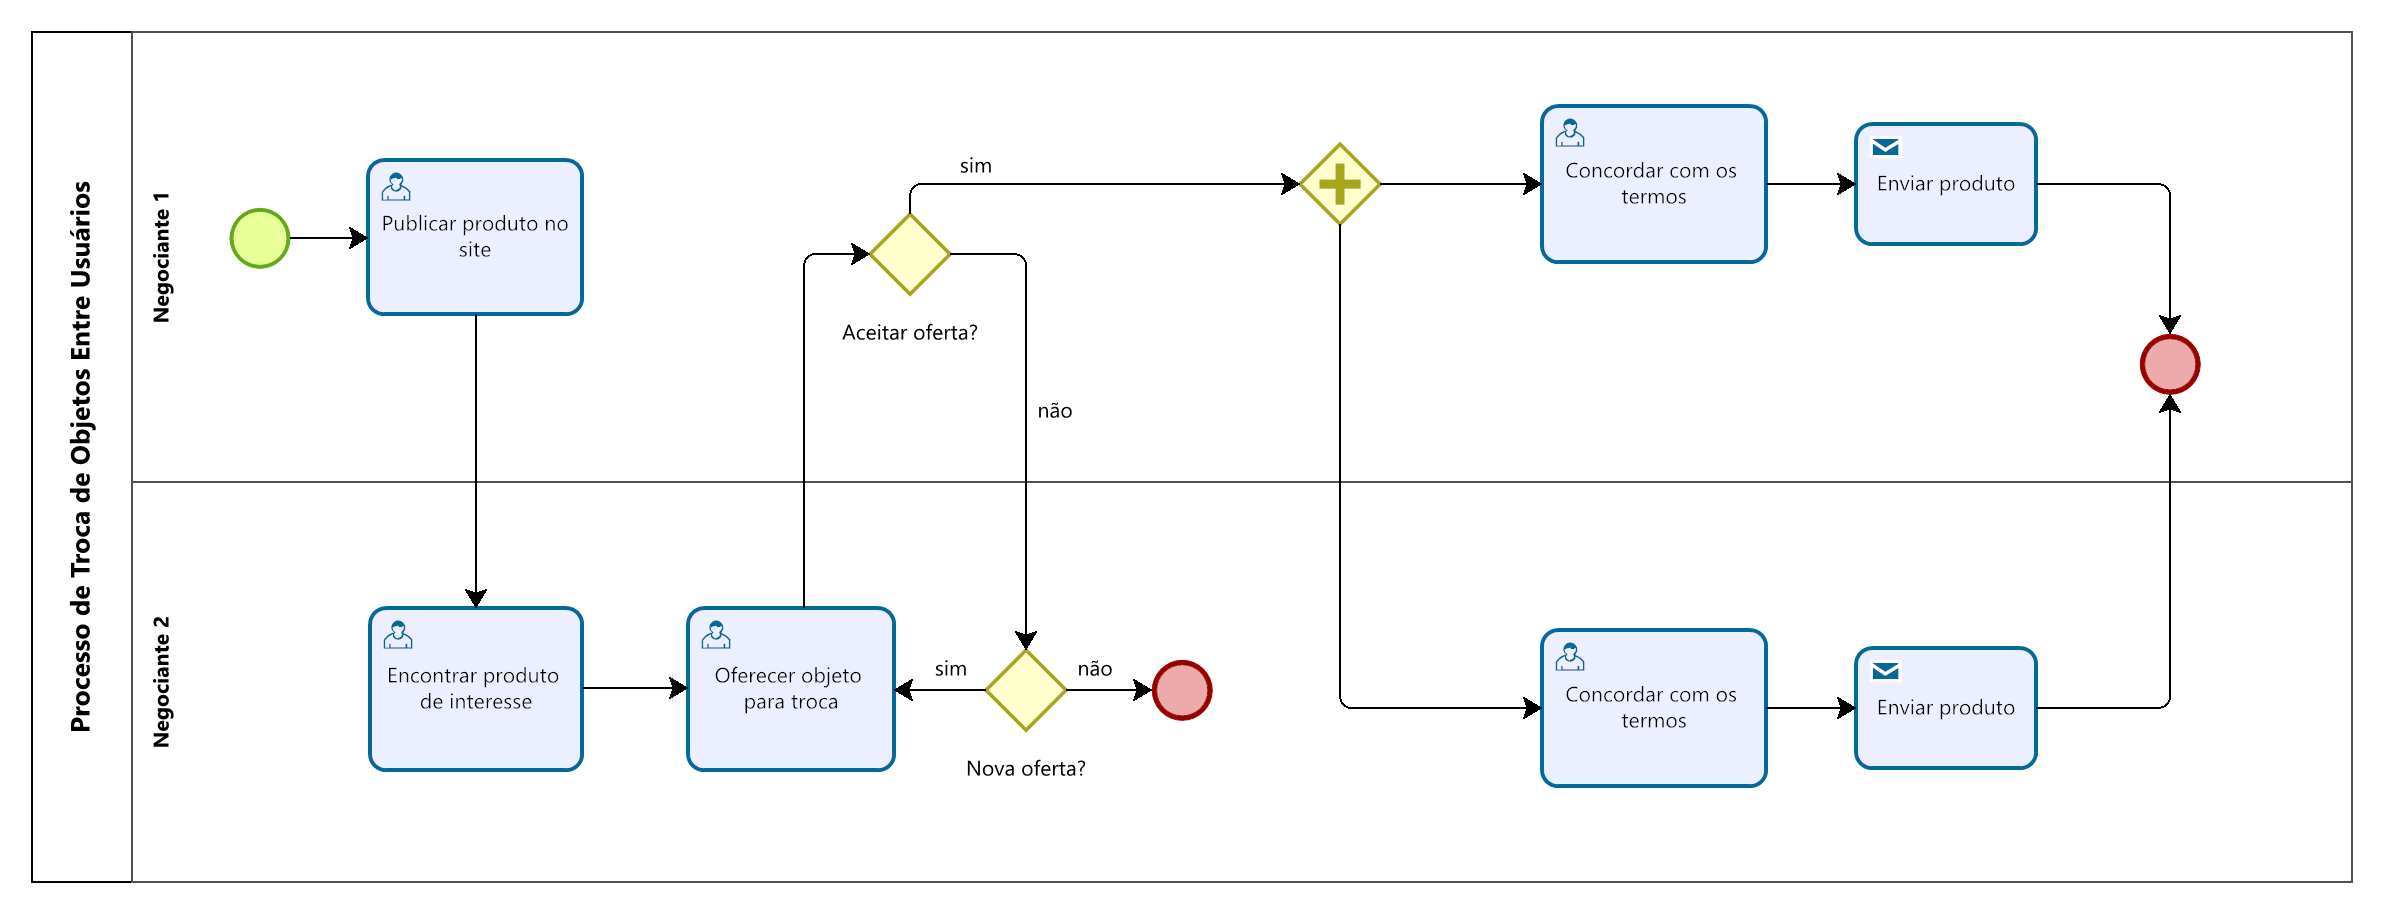
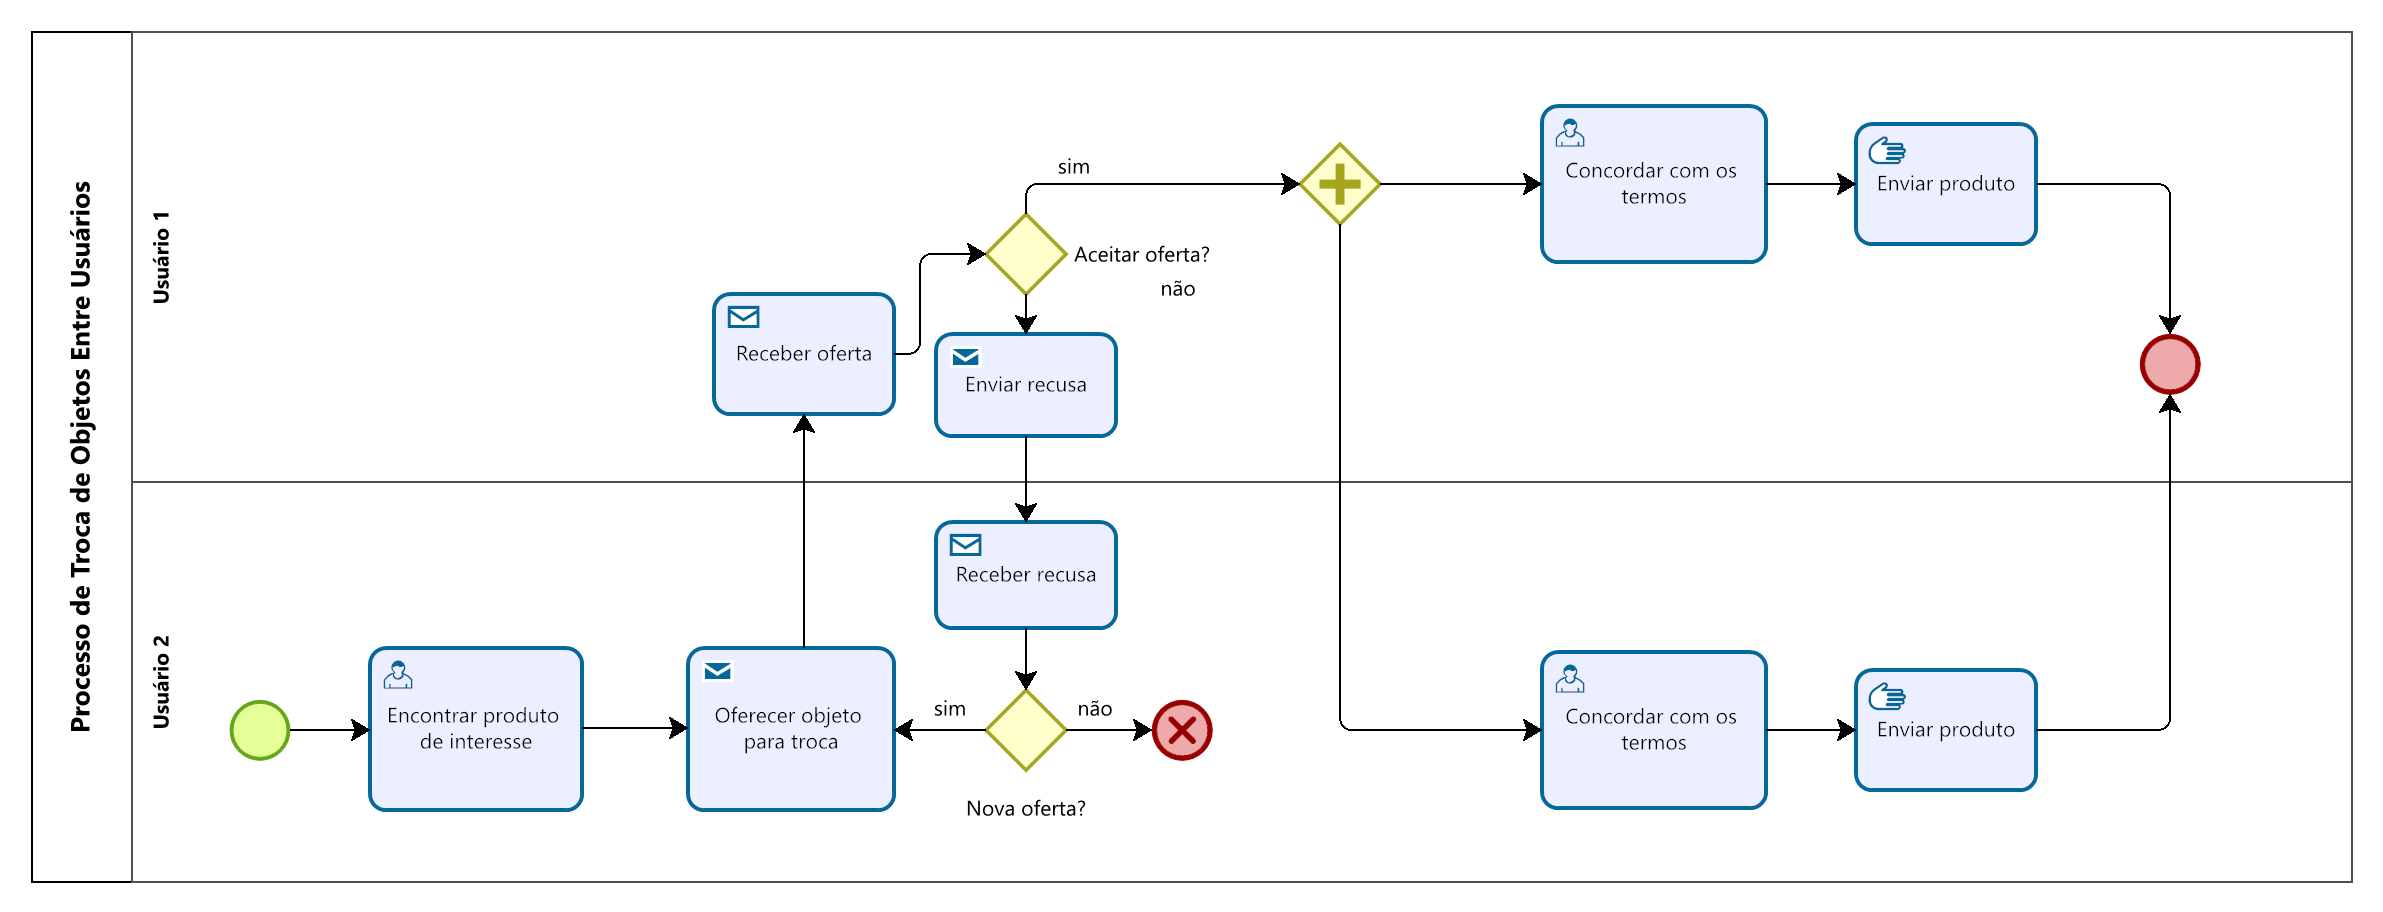
Corrigi o modelo #19 e troquei "negociantes" por "usuários"

diff --git a/docs/relatorio_final.md b/docs/relatorio_final.md
@@ -68,20 +68,20 @@ Além disso, a plataforma pode incentivar a sustentabilidade e o consumo conscie
 
 ## 2. Participantes do processo
 
-Todo o processo de negociação e eventual troca é realizado entre usuários do sistema. No contexto da troca em si, esses usuários podem assumir duas funções distintas, nomeadas **negociante 1** e **negociante 2**, cujas atividades são descritas a seguir:
+Todo o processo de negociação e eventual troca é realizado entre usuários do sistema. No contexto da troca em si, esses usuários podem assumir duas funções distintas, nomeadas **usuário 1** e **usuário 2**, cujas atividades são descritas a seguir:
 
-**Negociante 1**
+**usuário 1**
 
     1.1 Publica seu produto na plataforma;
     1.2 Aceita ou recusa ofertas;
     1.3 Informa se quer receber um produto específico ou outras ofertas.
 
-**Negociante 2**
+**usuário 2**
 
     2.1 Oferece um objeto seu em troca de outro publicado no site;
-    2.2 Caso sua oferta seja aceita ele pode conversar com o negociante 1.
+    2.2 Caso sua oferta seja aceita ele pode conversar com o usuário 1.
 
-Além disso, ambos os participantes podem, ao final do processo de troca, avaliar como foi negociar com um determinado usuário, de modo que os bons negociantes sejam reconhecidos.
+Além disso, ambos os participantes podem, ao final do processo de troca, avaliar como foi negociar com um determinado usuário, de modo que os bons usuários sejam reconhecidos.
 
 ## 3. Modelagem do processo de negócio
 
@@ -103,7 +103,7 @@ A proposta do **sKanboo** consiste em ampliar as maneiras de se realizar trocas,
 - Feito o cadastro, o usuário estará apto para cadastrar novo produto que deseja publicar para troca ou procurar por produtos que deseja;
 - Caso o usuário se interesse por um produto publico, ele pode fazer uma oferta no produto, que pode ser aceita ou recusada pelo usuário que o publicou;
 - Caso a oferta seja aceita, os usuários podem conversar entre si, para discutirem melhor os detalhes da troca e como ela vai ser realizada;
-- Após conclusão da troca, ambas as partes se avaliam no site, de modo que os bons negociantes sejam reconhecidos.
+- Após conclusão da troca, ambas as partes se avaliam no site, de modo que os bons usuários sejam reconhecidos.
 
 A avaliação entre usuários é importante, pois fornece maior segurança à outra parte, uma vez que um usuário com boa nota indica que ele já realizou trocas bem sucedidas. Além disso, a aplicação busca se beneficiar com isso, de um crescimento de seus usuários de maneira orgânica, na base do "boca a boca", na qual um usuário que teve uma boa experiência pode indicar a aplicação para um conhecido, por exemplo.
 
@@ -130,7 +130,7 @@ O setor de Marketing irá enviar uma proposta de parceria para o parceiro seleci
 
 ### 3.3.4 Processo 4 – Troca de objetos entre usuários
 
-O negociante 2 deve selecionar qual produto está interessado em receber em troca. Em seguida, ele deve enviar uma proposta afim de apresentar qual produto está oferecendo em troca do produto que ele deseja receber. Caso o negociante 1 aceite a proposta, ele abre chat para negociação. Quando ambos os usuários concordarem com os termos, devem enviar os produtos.
+O usuário 2 deve selecionar qual produto está interessado em receber em troca. Em seguida, ele deve enviar uma proposta afim de apresentar qual produto está oferecendo em troca do produto que ele deseja receber. Caso o usuário 1 aceite a proposta, ele abre chat para negociação. Quando ambos os usuários concordarem com os termos, devem enviar os produtos.
 
 ![Exemplo de um Modelo BPMN do PROCESSO 2](imagens/processoTrocaUsuarios.png 'Modelo BPMN do Processo 2.')
 
